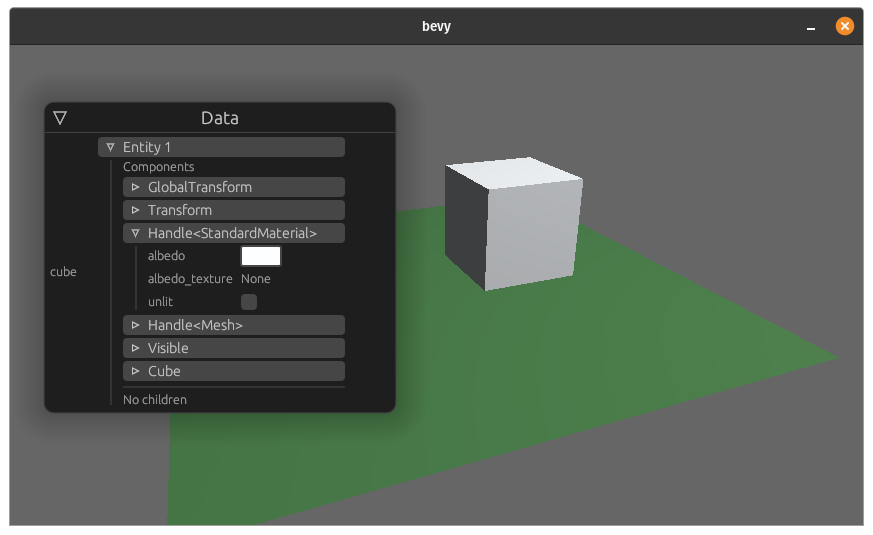
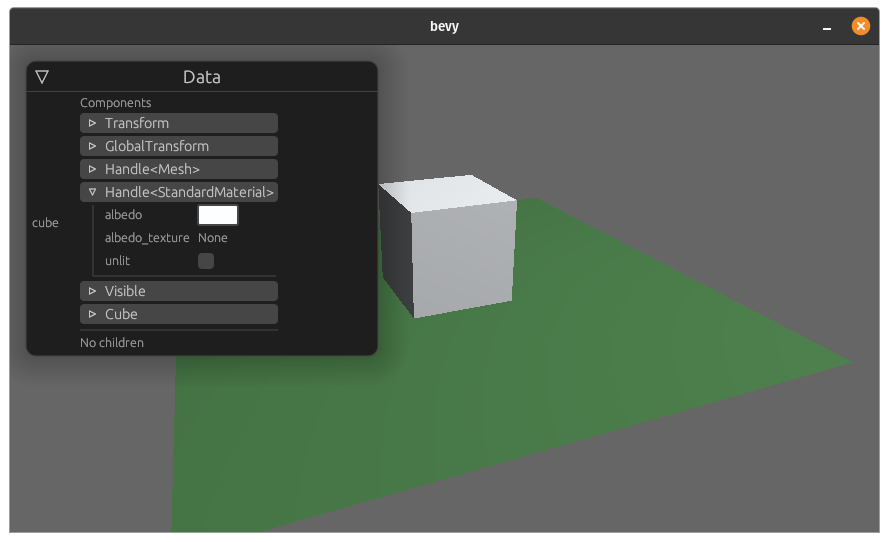
show entity without collapse by default

Changed region(s): [[0.0309, 0.0897, 0.6804, 0.7776], [0.9588, 0.0299, 0.9897, 0.0598], [0.4948, 0.0299, 0.5258, 0.0598]]

diff --git a/src/world_inspector/mod.rs b/src/world_inspector/mod.rs
@@ -147,57 +147,67 @@ impl WorldUIContext<'_> {
         CollapsingHeader::new(self.entity_name(entity))
             .id_source(id.with(entity))
             .show(ui, |ui| {
-                ui.label("Components");
+                self.entity_ui_inner(ui, entity, params, id);
+            });
+    }
 
-                let (location, components) = &self.components[&entity];
-                let components = components
-                    .iter()
-                    .map(|type_info| (pretty_type_name_str(type_info.type_name()), type_info));
-                let components = sort_iter_if(components, params.sort_components);
+    fn entity_ui_inner(
+        &self,
+        ui: &mut egui::Ui,
+        entity: Entity,
+        params: &WorldInspectorParams,
+        id: egui::Id,
+    ) {
+        ui.label("Components");
 
-                for (short_name, type_info) in components {
-                    if params.should_ignore_component(type_info.id()) {
-                        continue;
-                    }
+        let (location, components) = &self.components[&entity];
+        let components = components
+            .iter()
+            .map(|type_info| (pretty_type_name_str(type_info.type_name()), type_info));
+        let components = sort_iter_if(components, params.sort_components);
 
-                    ui.collapsing(short_name, |ui| {
-                        if params.is_read_only(type_info.id()) {
-                            ui.set_enabled(false);
-                        }
+        for (short_name, type_info) in components {
+            if params.should_ignore_component(type_info.id()) {
+                continue;
+            }
 
-                        let context = Context::new(self.ui_ctx, self.world, self.resources)
-                            .with_id(entity.id() as u64);
-
-                        // SAFETY: we have unique access to the world
-                        let could_display = unsafe {
-                            self.inspectable_registry.generate(
-                                self.world,
-                                *location,
-                                type_info,
-                                &*self.type_registry.read(),
-                                ui,
-                                &context,
-                            )
-                        };
-
-                        if !could_display {
-                            ui.label("Inspectable has not been defined for this component");
-                        }
-                    });
+            ui.collapsing(short_name, |ui| {
+                if params.is_read_only(type_info.id()) {
+                    ui.set_enabled(false);
                 }
 
-                ui.separator();
+                let context = Context::new(self.ui_ctx, self.world, self.resources)
+                    .with_id(entity.id() as u64);
 
-                let children = self.world.get::<Children>(entity);
-                if let Ok(children) = children {
-                    ui.label("Children");
-                    for &child in children.iter() {
-                        self.entity_ui(ui, child, params, id);
-                    }
-                } else {
-                    ui.label("No children");
+                // SAFETY: we have unique access to the world
+                let could_display = unsafe {
+                    self.inspectable_registry.generate(
+                        self.world,
+                        *location,
+                        type_info,
+                        &*self.type_registry.read(),
+                        ui,
+                        &context,
+                    )
+                };
+
+                if !could_display {
+                    ui.label("Inspectable has not been defined for this component");
                 }
             });
+        }
+
+        ui.separator();
+
+        let children = self.world.get::<Children>(entity);
+        if let Ok(children) = children {
+            ui.label("Children");
+            for &child in children.iter() {
+                self.entity_ui(ui, child, params, id);
+            }
+        } else {
+            ui.label("No children");
+        }
     }
 }
 

diff --git a/src/world_inspector/impls.rs b/src/world_inspector/impls.rs
@@ -34,7 +34,9 @@ impl Inspectable for Entity {
         let world = expect_context!(ui, context.world, "Entity");
 
         let ui_ctx = WorldUIContext::new(context.ui_ctx, world, resources);
-        ui_ctx.entity_ui(ui, *self, &options, context.id());
+        ui.vertical(|ui| {
+            ui_ctx.entity_ui_inner(ui, *self, &options, context.id());
+        });
     }
 }
 
@@ -94,7 +96,7 @@ impl<F: QueryFilter> Inspectable for InspectorQuery<F> {
         let entities: Vec<Entity> = world.query_filtered::<Entity, F>().collect();
 
         let params = WorldInspectorParams::default();
-        ui.vertical_centered(|ui| {
+        ui.vertical(|ui| {
             if options.collapse {
                 let name = pretty_type_name::<F>();
                 CollapsingHeader::new(name)
@@ -108,7 +110,6 @@ impl<F: QueryFilter> Inspectable for InspectorQuery<F> {
             } else {
                 for entity in entities {
                     ui_ctx.entity_ui(ui, entity, &params, context.id());
-                    ui.end_row();
                 }
             }
         });
